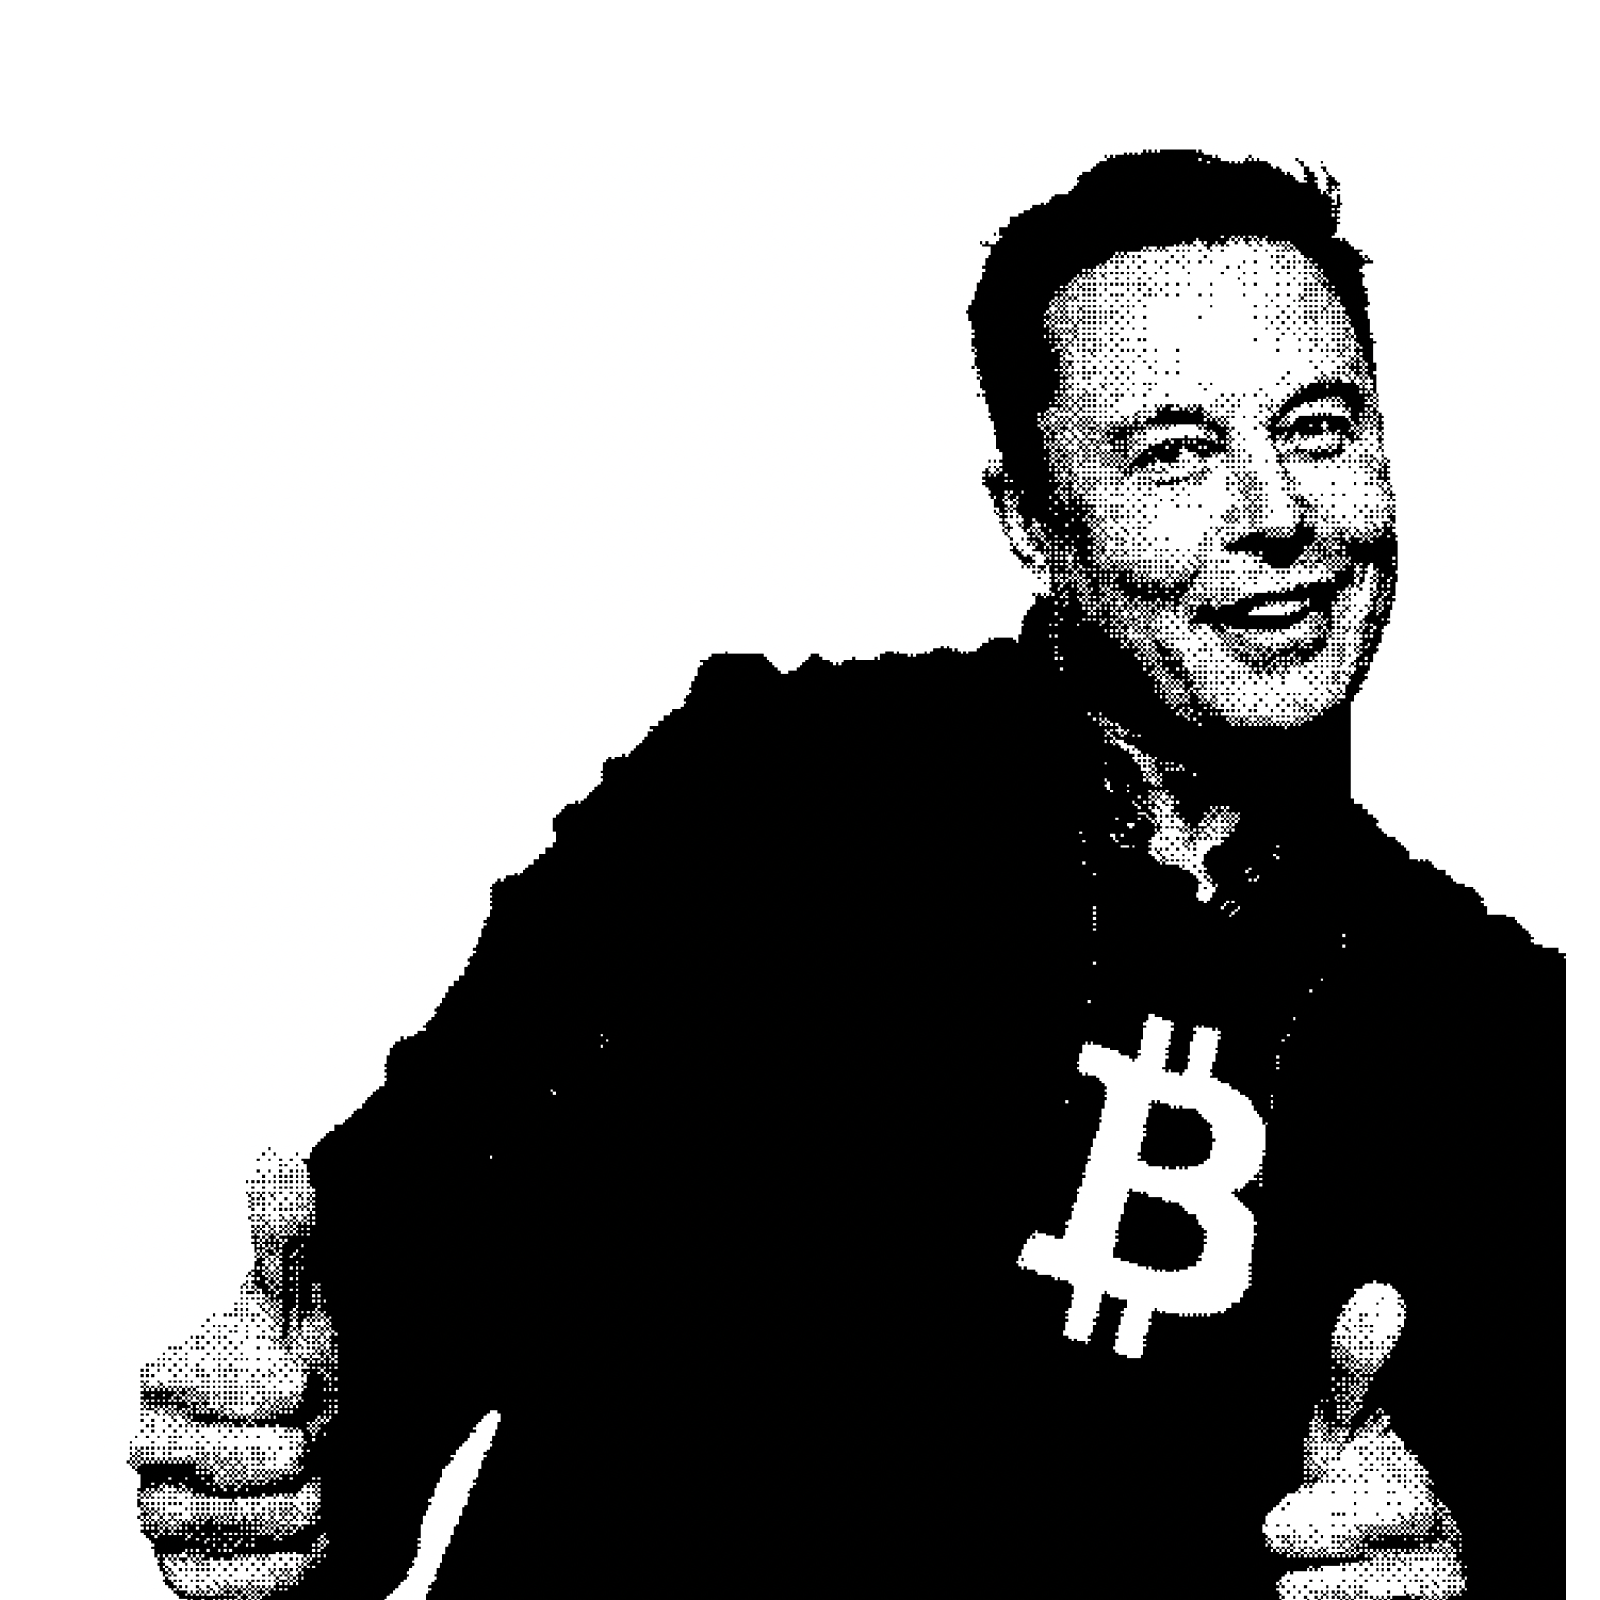
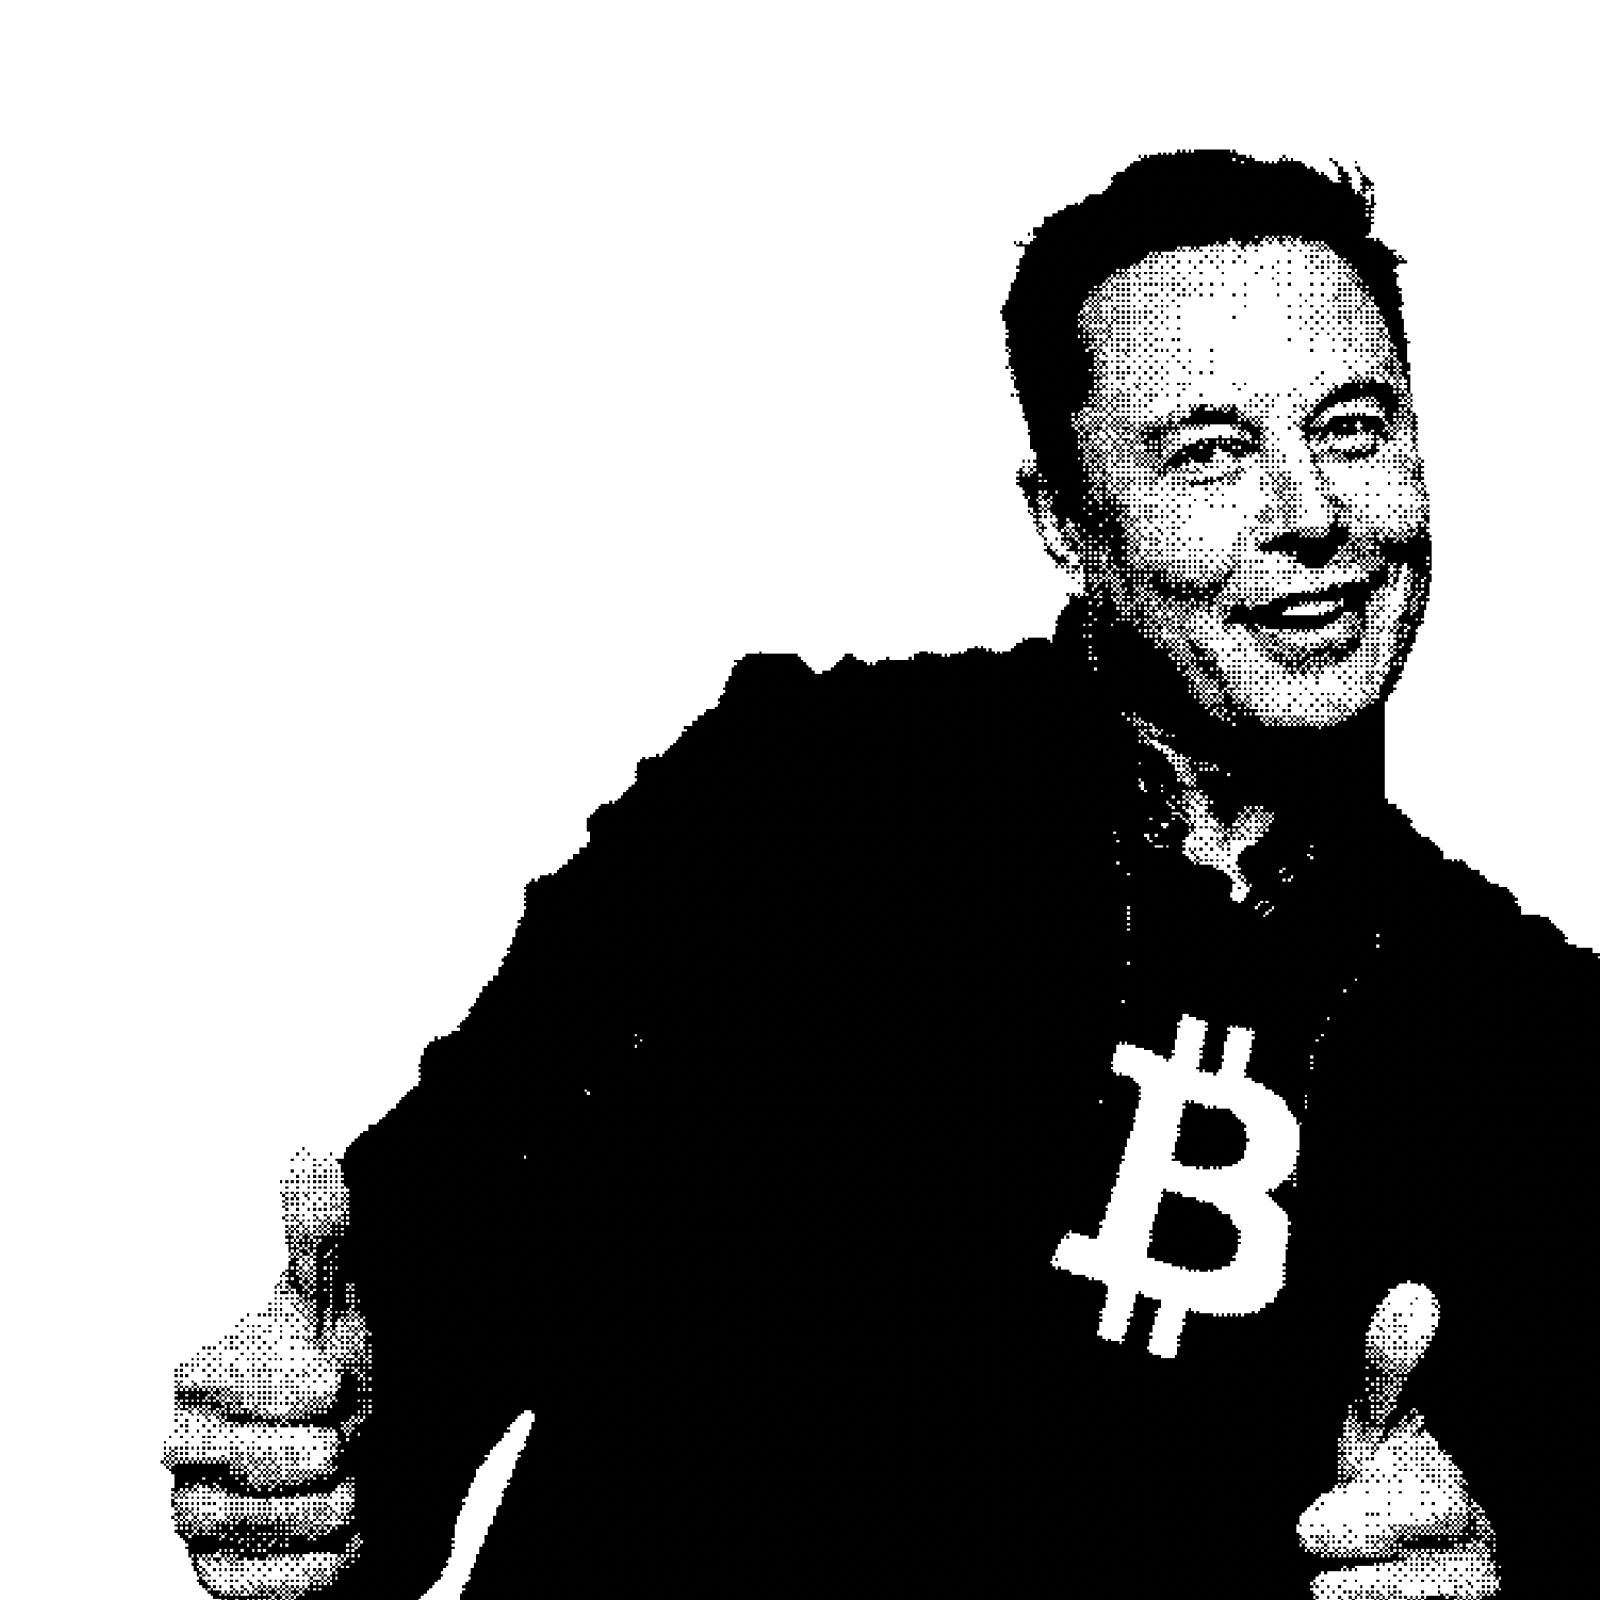
v1.3.3 updated trendle trading cards

diff --git a/test/trendle-trading.ts b/test/trendle-trading.ts
@@ -8,15 +8,15 @@ generateImage({
   props: {
     type: 'obama',
     trend: {
-      image: 'https://content.azuro.org/a2527335-e967-4d23-857a-3de267feb4b1.png',
-      title: 'Elon Musk',
+      image: "https://content.azuro.org/cc08578c-0334-4598-9d9d-15f8dc408e02.png",
+      title: 'Artificial intelligence',
     },
     position: {
       leverage: 2,
       isLong: true,
     },
     pnl: -48.5,
-    referralUrl: 'app.trendle.fi/i/abc831'
+    referralUrl: 'dev-app.trendle.fi/?inviteCode=98a746'
   }
 })
 
@@ -27,15 +27,15 @@ generateImage({
   props: {
     type: 'drake',
     trend: {
-      image: 'https://content.azuro.org/a2527335-e967-4d23-857a-3de267feb4b1.png',
-      title: 'Elon Musk',
+      image: "https://content.azuro.org/cc08578c-0334-4598-9d9d-15f8dc408e02.png",
+      title: 'Artificial intelligence',
     },
     position: {
       leverage: 5,
       isLong: false,
     },
     pnl: -23.1,
-    referralUrl: 'app.trendle.fi/i/abc831'
+    referralUrl: 'dev-app.trendle.fi/?inviteCode=98a746'
   }
 })
 
@@ -46,15 +46,15 @@ generateImage({
   props: {
     type: 'crash',
     trend: {
-      image: 'https://content.azuro.org/a2527335-e967-4d23-857a-3de267feb4b1.png',
-      title: 'Elon Musk',
+      image: "https://content.azuro.org/cc08578c-0334-4598-9d9d-15f8dc408e02.png",
+      title: 'Artificial intelligence',
     },
     position: {
       leverage: 5,
       isLong: false,
     },
     pnl: -23.1,
-    referralUrl: 'app.trendle.fi/i/abc831'
+    referralUrl: 'dev-app.trendle.fi/?inviteCode=98a746'
   }
 })
 
@@ -65,15 +65,15 @@ generateImage({
   props: {
     type: 'sydney',
     trend: {
-      image: 'https://content.azuro.org/a2527335-e967-4d23-857a-3de267feb4b1.png',
-      title: 'Elon Musk',
+      image: "https://content.azuro.org/cc08578c-0334-4598-9d9d-15f8dc408e02.png",
+      title: 'Artificial intelligence',
     },
     position: {
       leverage: 5,
       isLong: false,
     },
     pnl: -23.1,
-    referralUrl: 'app.trendle.fi/i/abc831'
+    referralUrl: 'dev-app.trendle.fi/?inviteCode=98a746'
   }
 })
 
@@ -84,15 +84,15 @@ generateImage({
   props: {
     type: 'tramp',
     trend: {
-      image: 'https://content.azuro.org/a2527335-e967-4d23-857a-3de267feb4b1.png',
-      title: 'Elon Musk',
+      image: "https://content.azuro.org/cc08578c-0334-4598-9d9d-15f8dc408e02.png",
+      title: 'Artificial intelligence',
     },
     position: {
       leverage: 5,
       isLong: false,
     },
     pnl: 13.1,
-    referralUrl: 'app.trendle.fi/i/abc831'
+    referralUrl: 'dev-app.trendle.fi/?inviteCode=98a746'
   }
 })
 
@@ -103,15 +103,15 @@ generateImage({
   props: {
     type: 'elon',
     trend: {
-      image: 'https://content.azuro.org/a2527335-e967-4d23-857a-3de267feb4b1.png',
-      title: 'Elon Musk',
+      image: "https://content.azuro.org/cc08578c-0334-4598-9d9d-15f8dc408e02.png",
+      title: 'Artificial intelligence',
     },
     position: {
       leverage: 5,
       isLong: false,
     },
     pnl: 13.1,
-    referralUrl: 'app.trendle.fi/i/abc831'
+    referralUrl: 'dev-app.trendle.fi/?inviteCode=98a746'
   }
 })
 
@@ -122,15 +122,15 @@ generateImage({
   props: {
     type: 'lewis',
     trend: {
-      image: 'https://content.azuro.org/a2527335-e967-4d23-857a-3de267feb4b1.png',
-      title: 'Elon Musk',
+      image: "https://content.azuro.org/cc08578c-0334-4598-9d9d-15f8dc408e02.png",
+      title: 'Artificial intelligence',
     },
     position: {
       leverage: 5,
       isLong: false,
     },
     pnl: 13.1,
-    referralUrl: 'app.trendle.fi/i/abc831'
+    referralUrl: 'dev-app.trendle.fi/?inviteCode=98a746'
   }
 })
 
@@ -141,14 +141,14 @@ generateImage({
   props: {
     type: 'mark',
     trend: {
-      image: 'https://content.azuro.org/a2527335-e967-4d23-857a-3de267feb4b1.png',
-      title: 'Elon Musk',
+      image: "https://content.azuro.org/cc08578c-0334-4598-9d9d-15f8dc408e02.png",
+      title: 'Artificial intelligence',
     },
     position: {
       leverage: 5,
       isLong: false,
     },
     pnl: 13.1,
-    referralUrl: 'app.trendle.fi/i/abc831'
+    referralUrl: 'dev-app.trendle.fi/?inviteCode=98a746'
   }
 })

diff --git a/src/templates/trendle-social/index.html b/src/templates/trendle-social/index.html
@@ -133,17 +133,17 @@
     }
 
     .card {
-      width: 850px;
-      height: 1060px;
-      padding-top: 260px;
+      width: 600px;
+      height: 749px;
+      padding-top: 183px;
       position: relative;
     }
 
     .bg {
       position: absolute;
       mix-blend-mode: difference;
-      top: 0px;
-      left: 0px;
+      top: 0;
+      left: 0;
       width: 100%;
       height: 100%;
     }
@@ -151,18 +151,18 @@
     .bottom-img {
       position: absolute;
       mix-blend-mode: multiply;
-      bottom: 0px;
-      left: 0px;
+      bottom: 0;
+      left: 0;
       width: 100%;
     }
 
     .avatar {
-      width: 300px;
-      height: 300px;
+      width: 212px;
+      height: 212px;
       border-radius: 100%;
-      border: 3.5px solid white;
+      border: 2.47px solid white;
       overflow: hidden;
-      margin: 40px auto 0;
+      margin: 28px auto 0;
       position: relative;
       z-index: 10;
     }
@@ -174,22 +174,22 @@
     .username {
       background-color: #111;
       color: #fff;
-      padding: 8px 20px 13px;
-      margin: -14px auto 0;
+      padding: 5.6px 14px 9.2px;
+      margin: -9.9px auto 0;
       width: fit-content;
       position: relative;
       z-index: 10;
-      font-size: 36px;
+      font-size: 25.4px;
       line-height: 100%;
       font-weight: 400;
     }
 
     .stamp-img {
-      width: 240px;
-      height: 240px;
+      width: 169px;
+      height: 169px;
       position: absolute;
-      top: 270px;
-      right: 140px;
+      top: 191px;
+      right: 99px;
       z-index: 20;
     }
   </style>

diff --git a/src/templates/trendle-trading/index.html b/src/templates/trendle-trading/index.html
@@ -168,6 +168,7 @@
       font-size: 24px;
       line-height: 100%;
       margin-top: 10px;
+      width: fit-content;
     }
 
     .pnl {
@@ -206,8 +207,8 @@
 
     .person-img {
       position: absolute;
-      height: 100%;
-      top: 0px;
+      height: 90%;
+      bottom: 0px;
       right: 0px;
       mix-blend-mode: multiply;
     }
